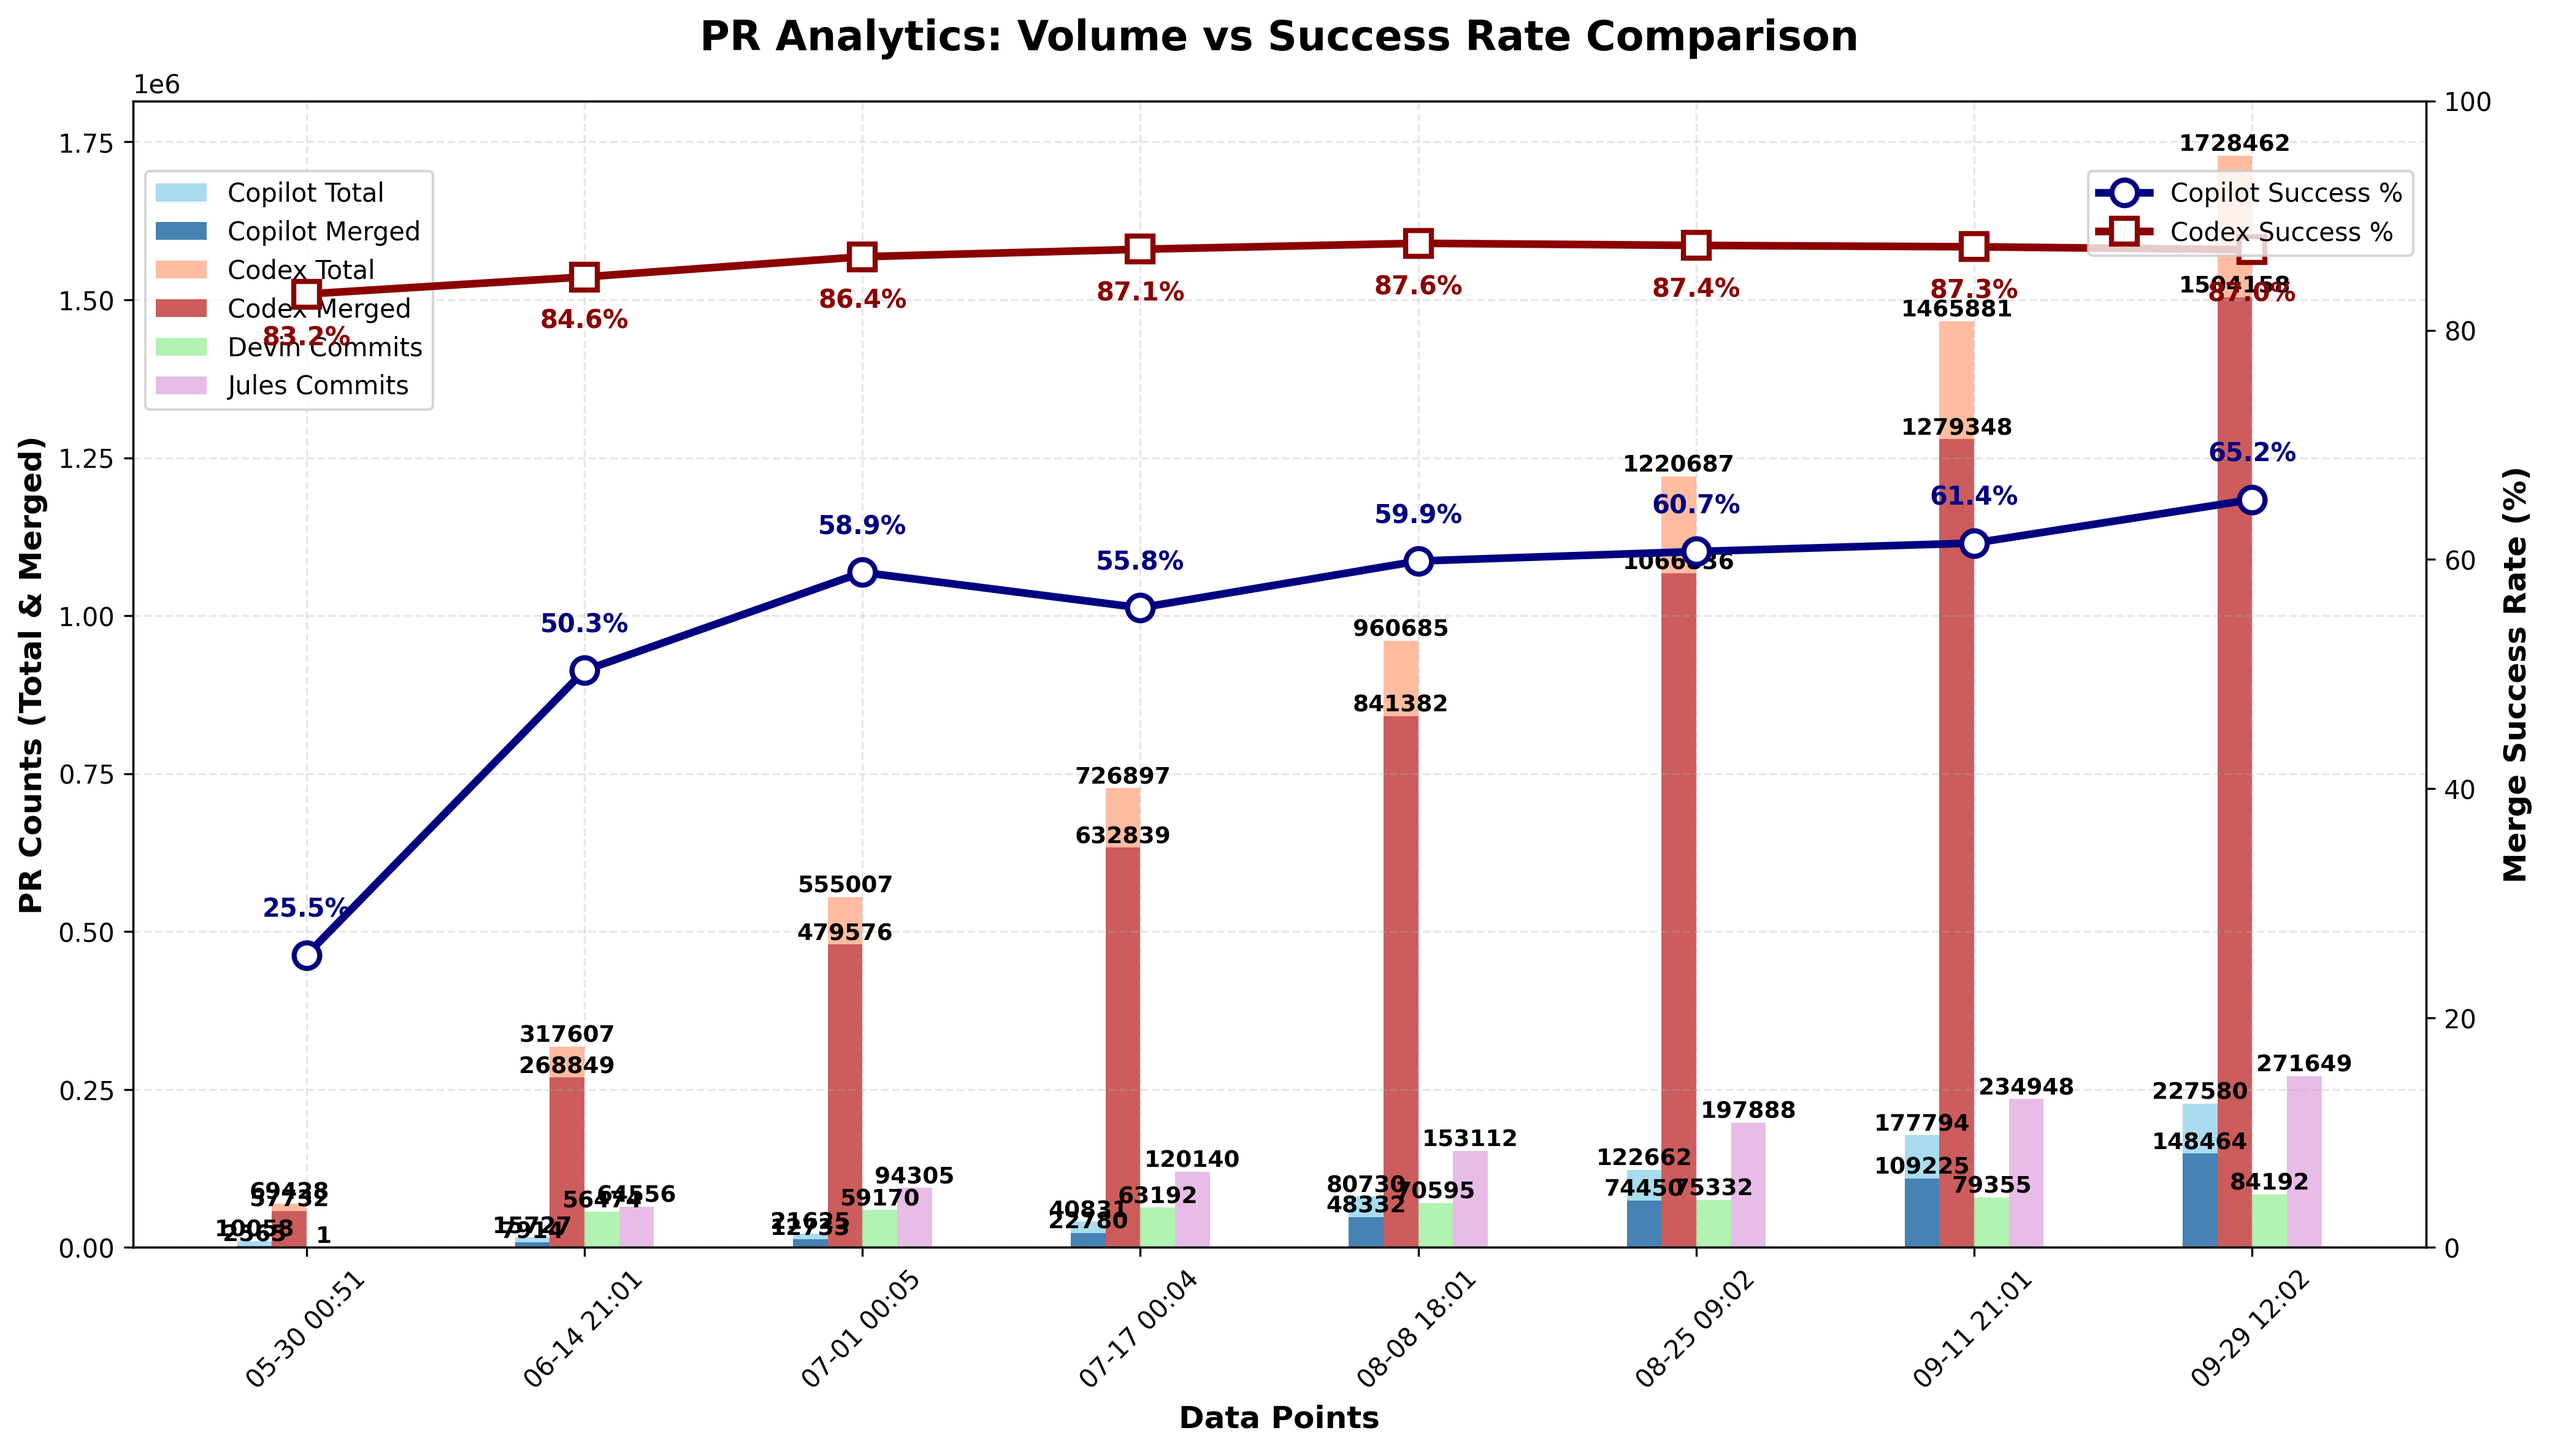
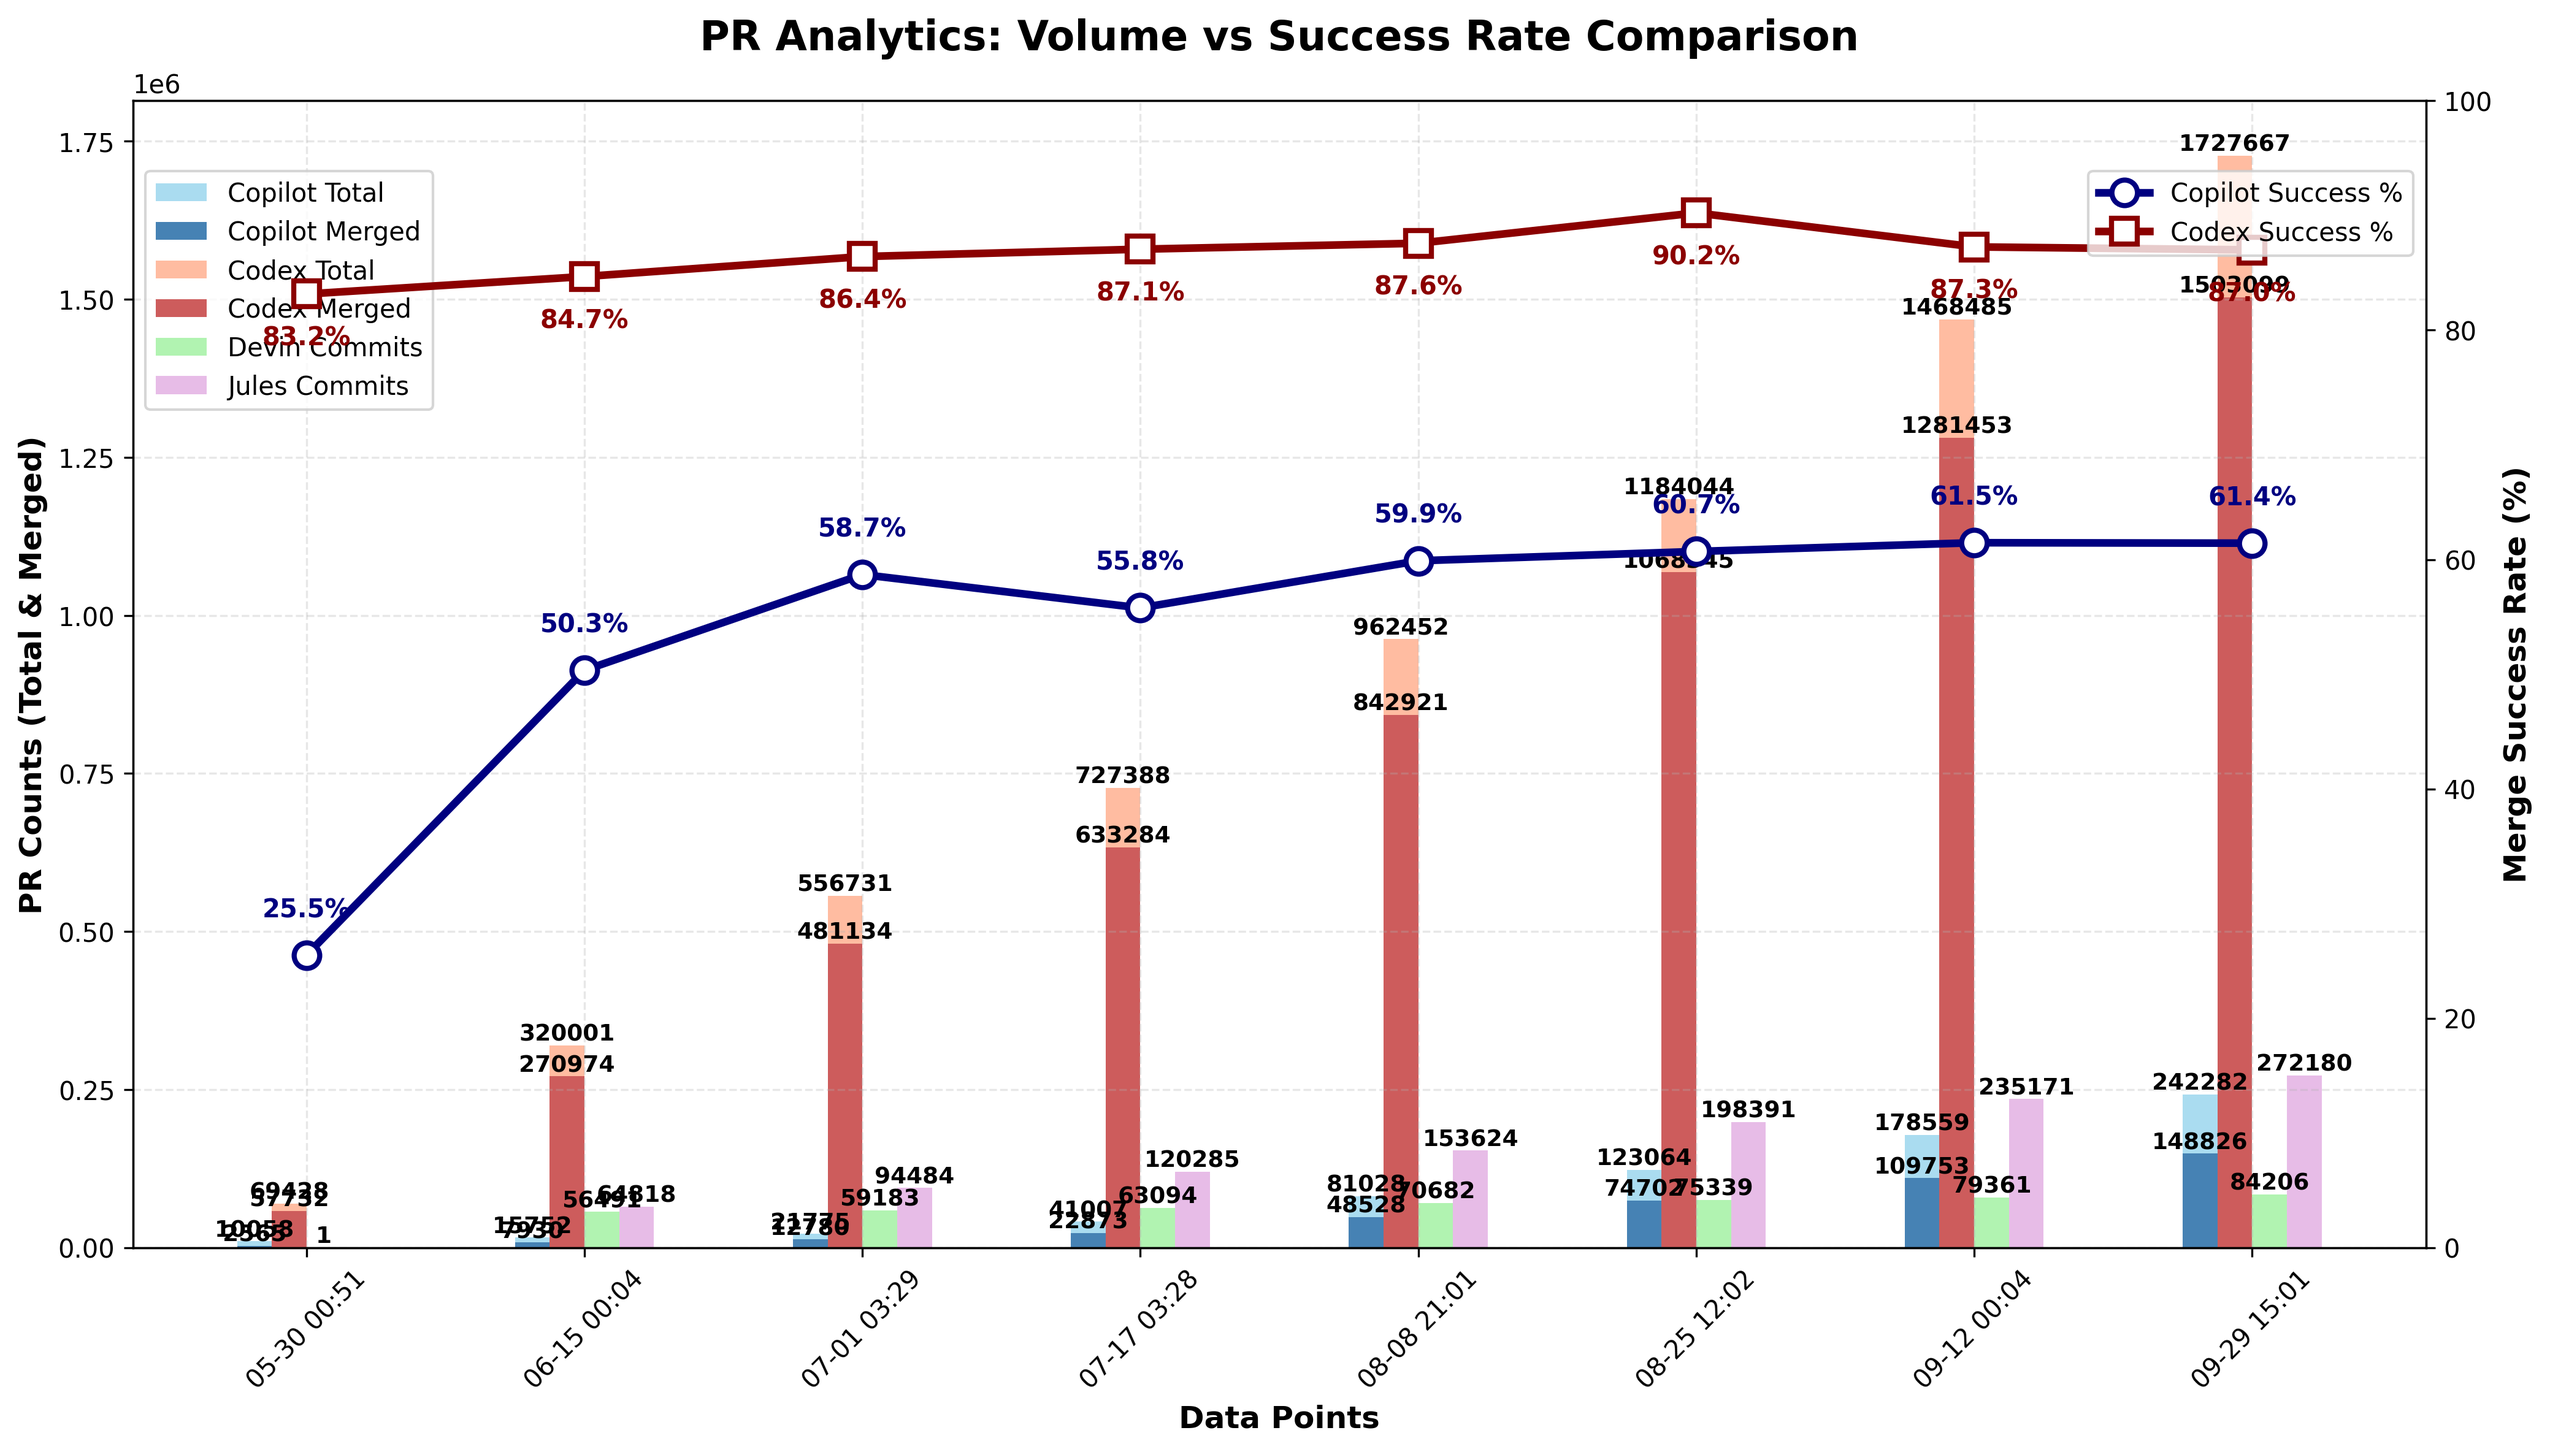
chore: update PR‑approval chart

diff --git a/docs/index.html b/docs/index.html
@@ -943,6 +943,7 @@
                         <td>N/A</td>
                         <td>N/A</td>
                         <td>N/A</td>
+                        <td>N/A</td>
                     </tr>
                     <tr>
                         <td>Codex</td>
@@ -1844,27 +1845,28 @@
                         <td>N/A</td>
                         <td>N/A</td>
                         <td>N/A</td>
+                        <td>N/A</td>
                     </tr>
                 <tr>
                         <td>Devin</td>
                         <td>N/A</td>
                         <td>N/A</td>
                         <td>N/A</td>
-                        <td>84,192</td>
+                        <td>84,206</td>
                     </tr>
                     <tr>
                         <td>Jules</td>
                         <td>N/A</td>
                         <td>N/A</td>
                         <td>N/A</td>
-                        <td>271,649</td>
+                        <td>272,180</td>
                     </tr>
                     </tbody>
             </table>
         </section>
 
         <footer>
-            <p>Last updated: <span id="last-updated">September 29, 2025 12:02 UTC</span></p>
+            <p>Last updated: <span id="last-updated">September 29, 2025 15:01 UTC</span></p>
             <p><a href="https://github.com/aavetis/ai-pr-watcher">View on GitHub</a></p>
         </footer>
     </div>

diff --git a/README.md b/README.md
@@ -19,7 +19,7 @@ Explore the GitHub search queries used:
 
 | Service | Total PRs | Merged PRs | Merge Rate | Total Commits |
 | ------- | --------- | ---------- | ---------- | ------------- |
-| Copilot | 227,580 | 148,464 | 65.24% | N/A           |
-| Codex   | 1,728,462 | 1,504,158 | 87.02% | N/A           |
-| Devin   | N/A       | N/A        | N/A        | 84,192 |
-| Jules   | N/A       | N/A        | N/A        | 271,649 |
+| Copilot | 242,282 | 148,826 | 61.43% | N/A           |
+| Codex   | 1,727,667 | 1,503,099 | 87.00% | N/A           |
+| Devin   | N/A       | N/A        | N/A        | 84,206 |
+| Jules   | N/A       | N/A        | N/A        | 272,180 |
